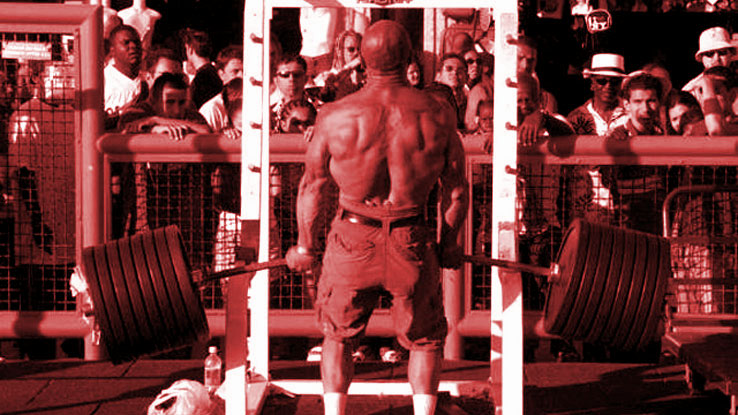
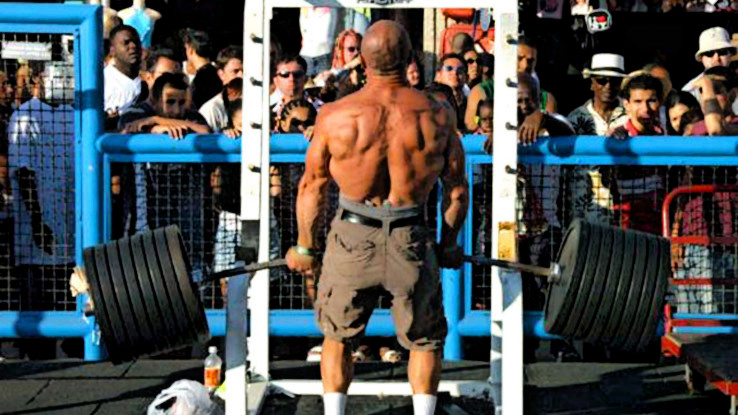
changed landingpage main color back to blue

diff --git a/app/assets/stylesheets/landingpage.css.scss b/app/assets/stylesheets/landingpage.css.scss
@@ -53,12 +53,6 @@
   padding: 10px;
 }
 
-#menu a:active, 
-#menu .active a,
-#menu li a:hover {
-  color: #982b2b;
-}
-
 // Restyle Join Beta button
 
 .cBtn input.buy {
@@ -73,7 +67,7 @@
 }
 
 .cBtn .buy:hover {
-  background: #982b2b;
+  background: #1FCDFF;
   box-shadow: 0px 2px 0px 0px black;
 }
 
